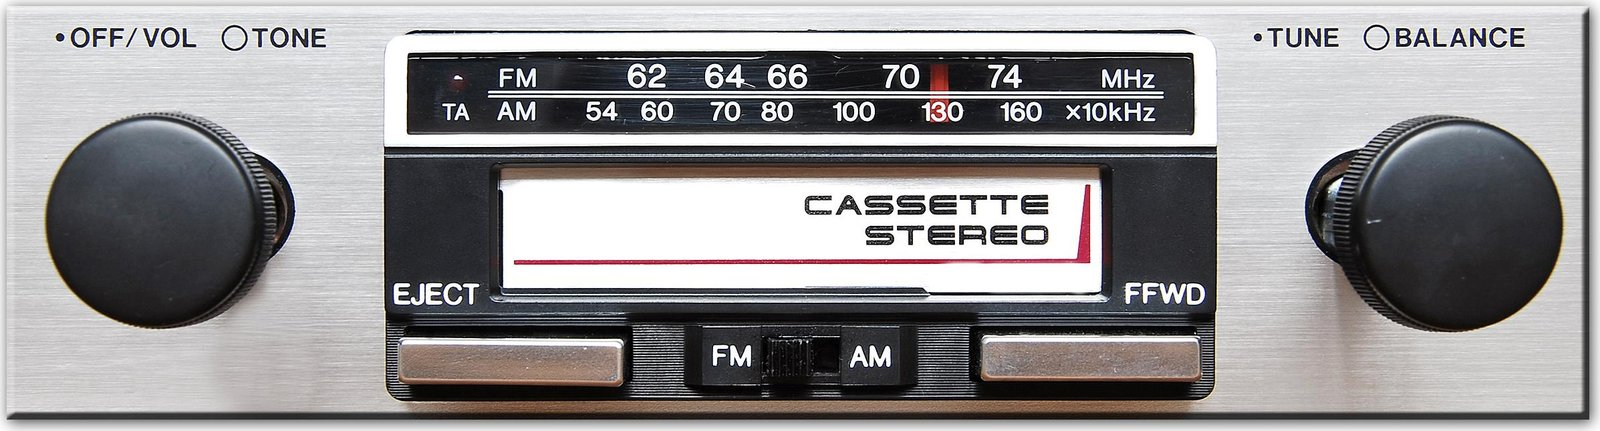
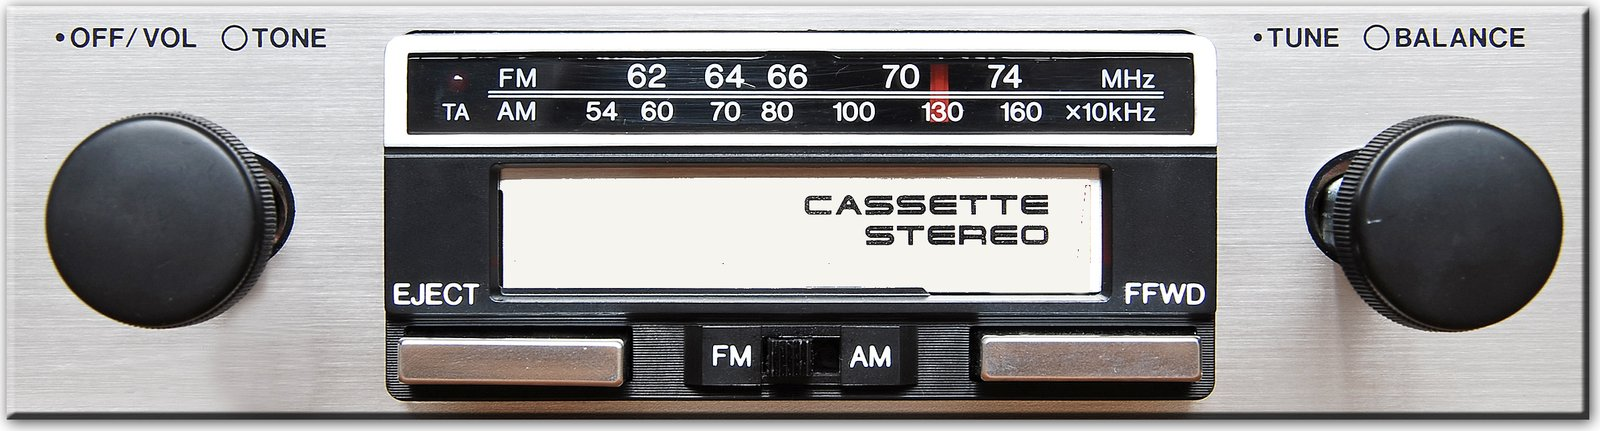
Radio: Cowboy Killers artists, shuffled each visit; paint out the old label
Claude-Session: https://claude.ai/code/session_01V1WiMoAHRRGT2e6Nrnrctw

Changed region(s): [[0.3125, 0.3921, 0.6875, 0.6334], [0.5312, 0.6636, 0.5625, 0.6937]]

diff --git a/about.html b/about.html
@@ -6,7 +6,7 @@
   <title>Kyla Joyner | About</title>
   <!-- Adobe Fonts kit: West End + Narkiss Yair -->
   <link rel="stylesheet" href="https://use.typekit.net/ijs5kav.css">
-  <link rel="stylesheet" href="css/style.css?v=43">
+  <link rel="stylesheet" href="css/style.css?v=44">
 </head>
 <body>
   <header class="site-header">
@@ -89,12 +89,23 @@
             <span>Lana Del Rey</span>
             <span>CLIP</span>
             <span>Failure</span>
+            <span>Keith Whitley</span>
+            <span>John Anderson</span>
+            <span>Travis Tritt</span>
+            <span>Johnny Paycheck</span>
+            <span>Merle Haggard</span>
+            <span>Zach Bryan</span>
+            <span>Loretta Lynn</span>
+            <span>Joshua Slone</span>
+            <span>Weirs</span>
+            <span>Hudson Freeman</span>
+            <span>keats</span>
           </div>
         </div>
       </div>
     </section>
   </main>
 
-  <script src="js/main.js?v=43"></script>
+  <script src="js/main.js?v=44"></script>
 </body>
 </html>

diff --git a/js/main.js b/js/main.js
@@ -213,8 +213,17 @@
   if (!display) return;
 
   const track = display.querySelector(".radio__track");
+
+  // shuffle the artists so the order is different on every visit
+  const items = Array.from(track.children);
+  for (let i = items.length - 1; i > 0; i--) {
+    const j = Math.floor(Math.random() * (i + 1));
+    [items[i], items[j]] = [items[j], items[i]];
+  }
+  items.forEach(function (el) { track.appendChild(el); });
+
   track.innerHTML += track.innerHTML;
-  track.lastElementChild && track.querySelectorAll("span").forEach(function (s, i, all) {
+  track.querySelectorAll("span").forEach(function (s, i, all) {
     if (i >= all.length / 2) s.setAttribute("aria-hidden", "true");
   });
 

diff --git a/carolina-photojournalism-workshop.html b/carolina-photojournalism-workshop.html
@@ -6,7 +6,7 @@
   <title>Kyla Joyner | Carolina Photo Journalism Workshop</title>
   <!-- Adobe Fonts kit: West End + Narkiss Yair -->
   <link rel="stylesheet" href="https://use.typekit.net/ijs5kav.css">
-  <link rel="stylesheet" href="css/style.css?v=43">
+  <link rel="stylesheet" href="css/style.css?v=44">
 </head>
 <body>
   <header class="site-header">
@@ -45,6 +45,6 @@
     <a class="back-link" href="index.html">&larr; Back to Work</a>
   </main>
 
-  <script src="js/main.js?v=43"></script>
+  <script src="js/main.js?v=44"></script>
 </body>
 </html>

diff --git a/rodeo.html b/rodeo.html
@@ -6,7 +6,7 @@
   <title>Kyla Joyner | Rodeo</title>
   <!-- Adobe Fonts kit: West End + Narkiss Yair -->
   <link rel="stylesheet" href="https://use.typekit.net/ijs5kav.css">
-  <link rel="stylesheet" href="css/style.css?v=43">
+  <link rel="stylesheet" href="css/style.css?v=44">
 </head>
 <body>
   <header class="site-header">
@@ -27,6 +27,6 @@
     <img class="ornament ornament--bottom-right" src="assets/images/ornament.png" alt="">
   </main>
 
-  <script src="js/main.js?v=43"></script>
+  <script src="js/main.js?v=44"></script>
 </body>
 </html>

diff --git a/unc-womens-basketball.html b/unc-womens-basketball.html
@@ -6,7 +6,7 @@
   <title>Kyla Joyner | UNC Women's Basketball</title>
   <!-- Adobe Fonts kit: West End + Narkiss Yair -->
   <link rel="stylesheet" href="https://use.typekit.net/ijs5kav.css">
-  <link rel="stylesheet" href="css/style.css?v=43">
+  <link rel="stylesheet" href="css/style.css?v=44">
 </head>
 <body>
   <header class="site-header">
@@ -39,6 +39,6 @@
     <a class="back-link" href="index.html">&larr; Back to Work</a>
   </main>
 
-  <script src="js/main.js?v=43"></script>
+  <script src="js/main.js?v=44"></script>
 </body>
 </html>

diff --git a/daily-tar-heel.html b/daily-tar-heel.html
@@ -6,7 +6,7 @@
   <title>Kyla Joyner | The Daily Tar Heel</title>
   <!-- Adobe Fonts kit: West End + Narkiss Yair -->
   <link rel="stylesheet" href="https://use.typekit.net/ijs5kav.css">
-  <link rel="stylesheet" href="css/style.css?v=43">
+  <link rel="stylesheet" href="css/style.css?v=44">
 </head>
 <body>
   <header class="site-header">
@@ -31,6 +31,6 @@
     <a class="back-link" href="index.html">&larr; Back to Work</a>
   </main>
 
-  <script src="js/main.js?v=43"></script>
+  <script src="js/main.js?v=44"></script>
 </body>
 </html>

diff --git a/old-spice.html b/old-spice.html
@@ -6,7 +6,7 @@
   <title>Kyla Joyner | Old Spice</title>
   <!-- Adobe Fonts kit: West End + Narkiss Yair -->
   <link rel="stylesheet" href="https://use.typekit.net/ijs5kav.css">
-  <link rel="stylesheet" href="css/style.css?v=43">
+  <link rel="stylesheet" href="css/style.css?v=44">
 </head>
 <body>
   <header class="site-header">
@@ -40,6 +40,6 @@
     <a class="back-link" href="index.html">&larr; Back to Work</a>
   </main>
 
-  <script src="js/main.js?v=43"></script>
+  <script src="js/main.js?v=44"></script>
 </body>
 </html>

diff --git a/pending.html b/pending.html
@@ -6,7 +6,7 @@
   <title>Kyla Joyner | Pending</title>
   <!-- Adobe Fonts kit: West End + Narkiss Yair -->
   <link rel="stylesheet" href="https://use.typekit.net/ijs5kav.css">
-  <link rel="stylesheet" href="css/style.css?v=43">
+  <link rel="stylesheet" href="css/style.css?v=44">
 </head>
 <body>
   <header class="site-header">
@@ -36,6 +36,6 @@
     <a class="back-link" href="index.html">&larr; Back to Work</a>
   </main>
 
-  <script src="js/main.js?v=43"></script>
+  <script src="js/main.js?v=44"></script>
 </body>
 </html>

diff --git a/index.html b/index.html
@@ -6,7 +6,7 @@
   <title>Kyla Joyner | Work</title>
   <!-- Adobe Fonts kit: West End + Narkiss Yair -->
   <link rel="stylesheet" href="https://use.typekit.net/ijs5kav.css">
-  <link rel="stylesheet" href="css/style.css?v=43">
+  <link rel="stylesheet" href="css/style.css?v=44">
 </head>
 <body>
   <header class="site-header">
@@ -35,6 +35,6 @@
     </ul>
   </main>
 
-  <script src="js/main.js?v=43"></script>
+  <script src="js/main.js?v=44"></script>
 </body>
 </html>

diff --git a/css/style.css b/css/style.css
@@ -843,7 +843,7 @@ a {
   position: absolute;
   left: 31.2%;
   top: 41.3%;
-  width: 37.1%;
+  width: 37.5%;
   height: 26.4%;
   overflow: hidden;
   display: flex;
